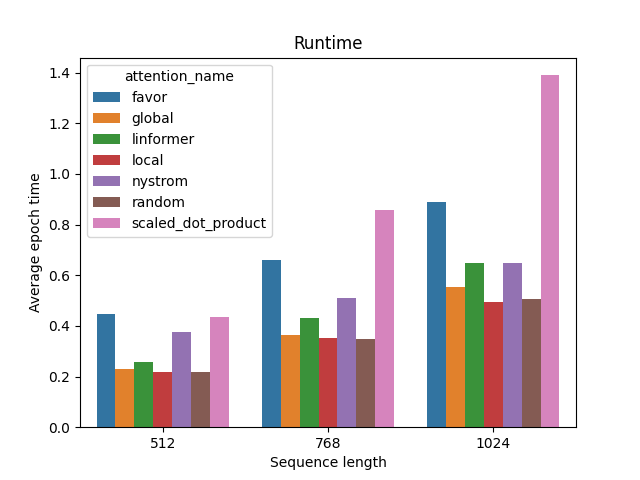
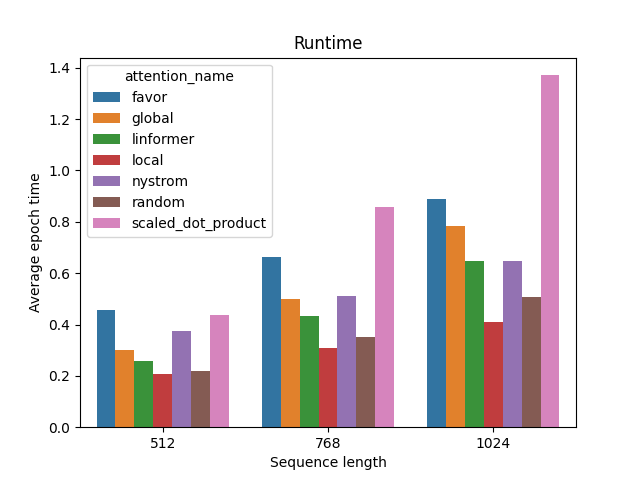
Expose a force_sparsity option, couple of related changes (#96)
* testing an implementation
* generalizing to all the sparse attentions
* update the benchmarks

diff --git a/xformers/components/attention/random.py b/xformers/components/attention/random.py
@@ -9,6 +9,7 @@ from xformers.components.attention import (
     AttentionConfig,
     maybe_sparsify,
     register_attention,
+    sparsify,
 )
 from xformers.components.attention.attention_patterns import (
     causal_1d_pattern,
@@ -21,6 +22,7 @@ from xformers.components.attention.core import scaled_dot_product_attention
 class RandomAttentionConfig(AttentionConfig):
     r: float  # the ratio of keys that the query can attend to. 1.0 means dense attention
     constant_masking: bool  # whether the randomness is per query or defined at construction time
+    force_sparsity: bool  # use sparsity in any case (potentially slower)
 
 
 @register_attention("random")
@@ -31,6 +33,7 @@ class RandomAttention(Attention):
         causal: bool = False,
         r: float = 0.01,
         constant_masking: bool = True,
+        force_sparsity: bool = False,
         *args,
         **kwargs
     ):
@@ -53,6 +56,7 @@ class RandomAttention(Attention):
         self.r = r
         self.rand_mask: Optional[torch.Tensor] = None
         self.constant_masking = constant_masking
+        self.force_sparsity = force_sparsity
 
     def _get_rand_mask(self, shape: torch.Size) -> torch.Tensor:
         sparsity = 1 - self.r
@@ -61,7 +65,7 @@ class RandomAttention(Attention):
         if self.causal:
             mask &= causal_1d_pattern(shape[1])
 
-        mask = maybe_sparsify(mask)
+        mask = sparsify(mask) if self.force_sparsity else maybe_sparsify(mask)
 
         return mask
 

diff --git a/xformers/components/attention/global_tokens.py b/xformers/components/attention/global_tokens.py
@@ -9,6 +9,7 @@ from xformers.components.attention import (
     AttentionConfig,
     maybe_sparsify,
     register_attention,
+    sparsify,
 )
 from xformers.components.attention.attention_patterns import (
     causal_1d_pattern,
@@ -19,7 +20,9 @@ from xformers.components.attention.core import scaled_dot_product_attention
 
 @dataclass(init=False)
 class GlobalAttentionConfig(AttentionConfig):
+    causal: bool
     attention_query_mask: torch.Tensor  # Mark the queries which have global attention
+    force_sparsity: bool
 
 
 @register_attention("global")
@@ -29,6 +32,7 @@ class GlobalAttention(Attention):
         dropout: float,
         attention_query_mask: torch.Tensor,
         causal: bool = False,
+        force_sparsity: bool = False,
         *args,
         **kwargs
     ):
@@ -60,11 +64,16 @@ class GlobalAttention(Attention):
 
         self.attn_drop = nn.Dropout(dropout, inplace=False)
         self.attention_mask = global_token_pattern(attention_query_mask[:, 0])
+        self.force_sparsity = force_sparsity
 
         if causal:
             self.attention_mask &= causal_1d_pattern(attention_query_mask.shape[1])
 
-        self.attention_mask = maybe_sparsify(self.attention_mask)
+        self.attention_mask = (
+            sparsify(self.attention_mask)
+            if self.force_sparsity
+            else maybe_sparsify(self.attention_mask)
+        )
 
     def forward(
         self,

diff --git a/xformers/components/attention/local.py b/xformers/components/attention/local.py
@@ -9,6 +9,7 @@ from xformers.components.attention import (
     AttentionConfig,
     maybe_sparsify,
     register_attention,
+    sparsify,
 )
 from xformers.components.attention.attention_patterns import (
     causal_1d_pattern,
@@ -21,6 +22,7 @@ from xformers.components.attention.core import scaled_dot_product_attention
 class LocalAttentionConfig(AttentionConfig):
     causal: bool
     window_size: int
+    force_sparsity: bool
 
 
 @register_attention("local")
@@ -30,6 +32,7 @@ class LocalAttention(Attention):
         dropout: float = 0.0,
         causal: bool = False,
         window_size: int = 5,
+        force_sparsity: bool = False,
         *args,
         **kwargs,
     ):
@@ -59,6 +62,7 @@ class LocalAttention(Attention):
 
         self.attn_drop = nn.Dropout(dropout, inplace=True)
         self.causal = causal
+        self.force_sparsity = force_sparsity
 
         if not self.causal:
             assert (
@@ -75,7 +79,7 @@ class LocalAttention(Attention):
         if self.causal:
             mask &= causal_1d_pattern(shape[1])
 
-        mask = maybe_sparsify(mask)
+        mask = sparsify(mask) if self.force_sparsity else maybe_sparsify(mask)
 
         return mask
 

diff --git a/benchmarks/benchmark_encoder.py b/benchmarks/benchmark_encoder.py
@@ -21,15 +21,12 @@ from xformers.components import (
     AttentionConfig,
     MultiHeadDispatchConfig,
 )
-from xformers.components.attention import _DENSITY_THRESHOLD
 from xformers.components.feedforward import FEEDFORWARD_REGISTRY, FeedforwardConfig
 from xformers.components.positional_encoding import PositionEncodingConfig
 from xformers.factory.block_factory import xFormerEncoderBlock, xFormerEncoderConfig
 
 _use_cuda = torch.cuda.is_available()
-GLOBAL_ATTENTION_RATIO = (
-    _DENSITY_THRESHOLD * 0.5
-)  # Make sure that we test the sparse implementation, no matter the threshold
+_GLOBAL_ATTENTION_RATIO = 0.1  # arbitrary
 
 
 def _get_attention_query_mask(sequence_length: int, ratio: float):
@@ -197,7 +194,7 @@ def instantiate_xformer(
         "causal": causal,
         "from_seq_dim": sequence_length,
         "attention_query_mask": _get_attention_query_mask(
-            sequence_length, GLOBAL_ATTENTION_RATIO
+            sequence_length, _GLOBAL_ATTENTION_RATIO
         ),
         "num_heads": heads,
     }

diff --git a/xformers/components/attention/__init__.py b/xformers/components/attention/__init__.py
@@ -15,7 +15,7 @@ ATTENTION_CLASS_NAMES = set()
 
 # Arbitrary threshold for now,
 # in between dense and sparse matrix algorithms for the attention mechanism
-_DENSITY_THRESHOLD = 0.05  # noqa
+_DENSITY_THRESHOLD = 0.30  # noqa # from the sputnik paper, vs.
 _USE_SPUTNIK = True
 
 
@@ -73,6 +73,11 @@ def maybe_sparsify(matrix):
     # Sparsify if that makes sense
     if torch.count_nonzero(matrix).item() / matrix.numel() > _DENSITY_THRESHOLD:
         return matrix
+
+    return sparsify(matrix)
+
+
+def sparsify(matrix):
     if _USE_SPUTNIK:
         return SparseCS(matrix)
     return matrix.to_sparse()

diff --git a/README.md b/README.md
@@ -57,7 +57,7 @@ Please note that:
 - These numbers are dependent of hyperparameters (dimensions chosen for Linformer, sparsity of the pattern), they are mostly an illustration
 - The sparse attention patterns tested here are just presets, as explained in the linked notebook generating any new sparse attention pattern should be relatively easy, while keeping the benefits of optimized computations.
 
-Some examples:
+Some examples, generated with `python3 benchmarks/benchmark_encoder.py --activations gelu --plot -emb 256 -bs 32 -heads 16`
 
 ![](docs/plots/memory_vs_attention.png)
 
@@ -130,4 +130,3 @@ Some references or papers used in the repo
 - [Reformer: The Efficient Transformer, Kitaev et al., 2020](https://arxiv.org/abs/2001.04451)
 - [Longformer: The Long-Document Transformer, Beltagy et al., 2020](https://arxiv.org/pdf/2004.05150.pdf)
 - [Long Range Arena: a benchmark for efficient Transformers, Tay et al., 2020](https://arxiv.org/abs/2011.04006)
-
